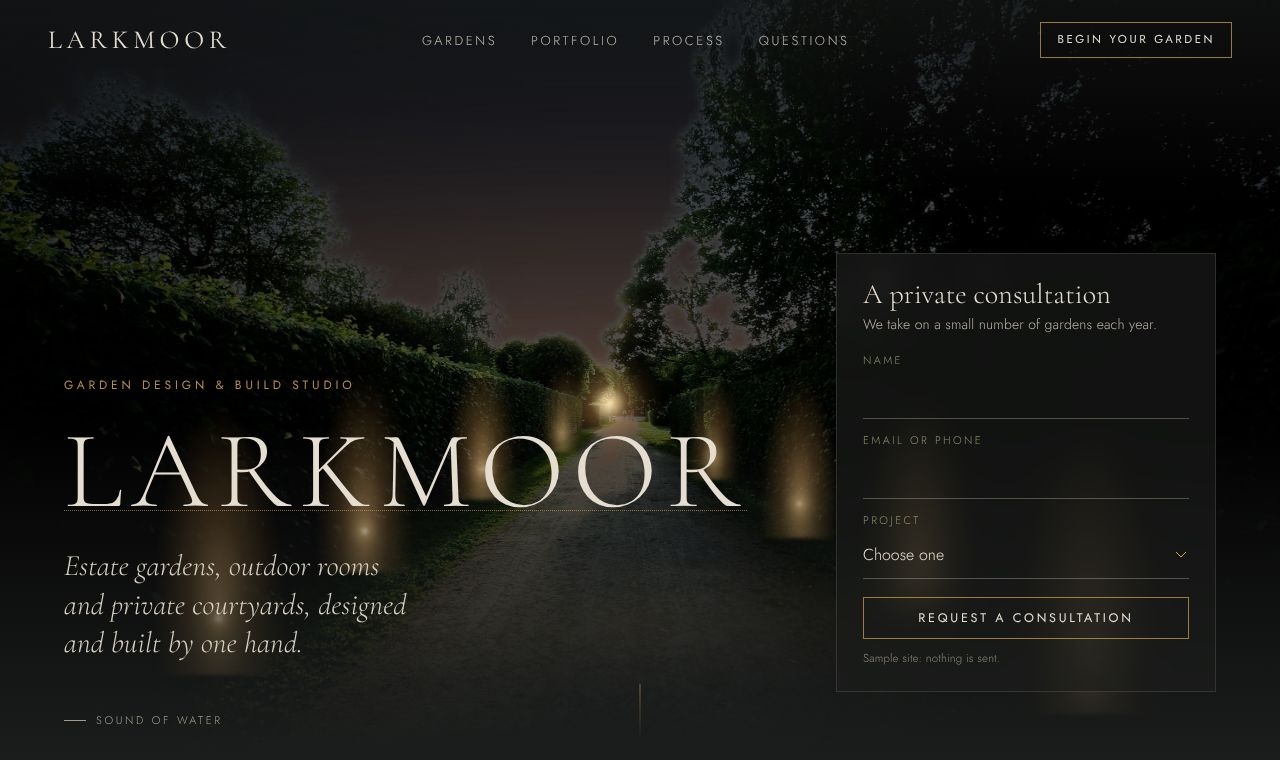
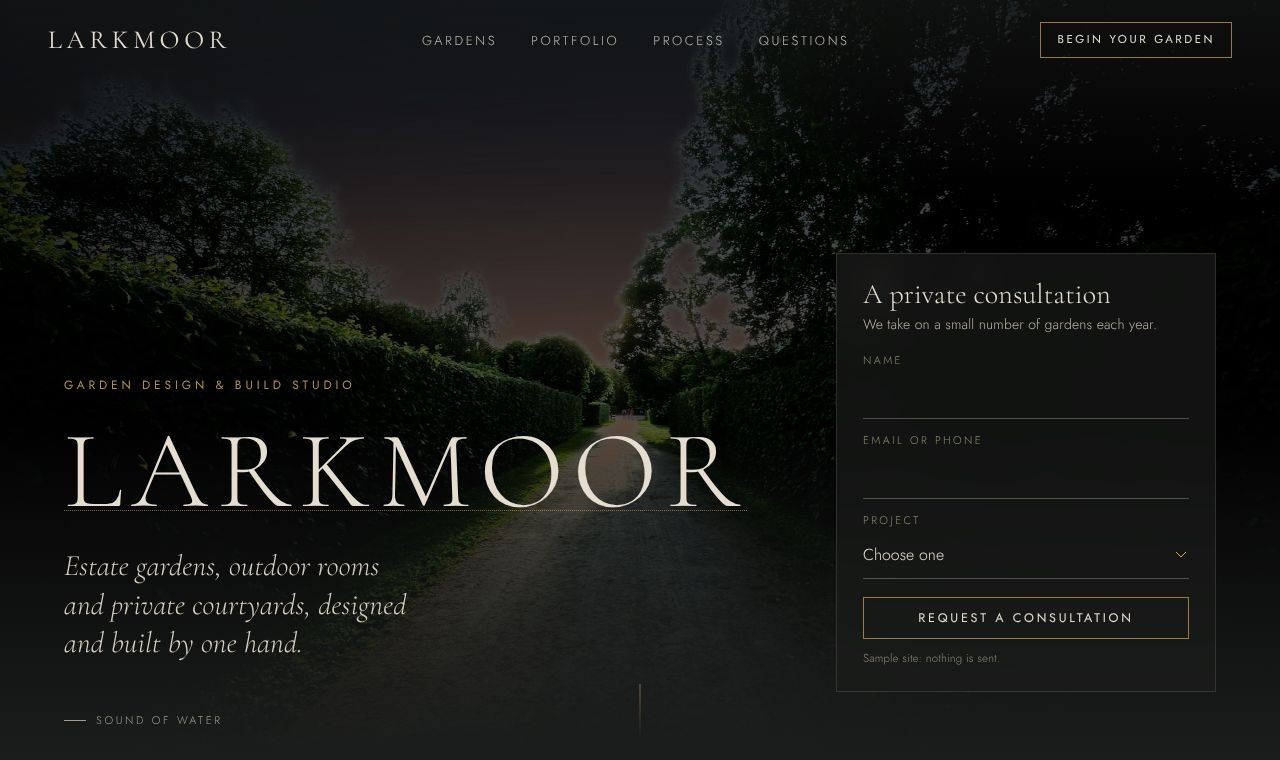
Larkmoor: remove drawn-on hero lights
Claude-Session: https://claude.ai/code/session_01PLRpbi61Hy2EsLWAZx1QGs

diff --git a/examples/larkmoor-estate-gardens/index.html b/examples/larkmoor-estate-gardens/index.html
@@ -291,17 +291,6 @@ footer{padding:64px 0 96px;border-top:1px solid rgba(228,221,208,.1);font-size:1
  <div class="scene" aria-hidden="true">
   <div class="cam" id="cam">
    <div class="photo"></div>
-   <div class="pool"></div>
-   <!-- one garden light far down the path, then uplights along both hedges, far to near -->
-   <i class="light lantern" style="--x:47.6%;--y:52.5%"></i>
-   <i class="light" style="--x:44%;--y:56%;--w:5%;--o:.8"></i>
-   <i class="light" style="--x:55.5%;--y:58.6%;--w:6%;--o:.85"></i>
-   <i class="light" style="--x:38%;--y:60%;--w:8%"></i>
-   <i class="light" style="--x:62%;--y:64%;--w:9%"></i>
-   <i class="light" style="--x:29%;--y:67%;--w:11%"></i>
-   <i class="light" style="--x:71%;--y:71%;--w:12%"></i>
-   <i class="light" style="--x:18%;--y:77%;--w:15%"></i>
-   <i class="light" style="--x:84%;--y:81%;--w:16%"></i>
   </div>
  </div>
  <div class="veil"></div>
@@ -491,13 +480,8 @@ const hero=$('.hero'),lights=$$('.light'),nav=$('#nav'),cam=$('#cam');
 async function opening(){
  if(RM){hero.classList.add('dusk','lit','named','ready');lights.forEach(l=>l.classList.add('on'));nav.classList.add('on');return}
  await wait(500);
- lights[0].classList.add('on');           // a single garden light warms on
- await wait(1300);
  hero.classList.add('dusk');cam.classList.add('glide'); // the garden appears, camera begins to glide
- await wait(900);
- for(let i=1;i<lights.length;i++){lights[i].classList.add('on');await wait(380)}
- hero.classList.add('lit');
- await wait(300);
+ await wait(2200);
  hero.classList.add('named');
  await wait(1500);
  hero.classList.add('ready');nav.classList.add('on');
